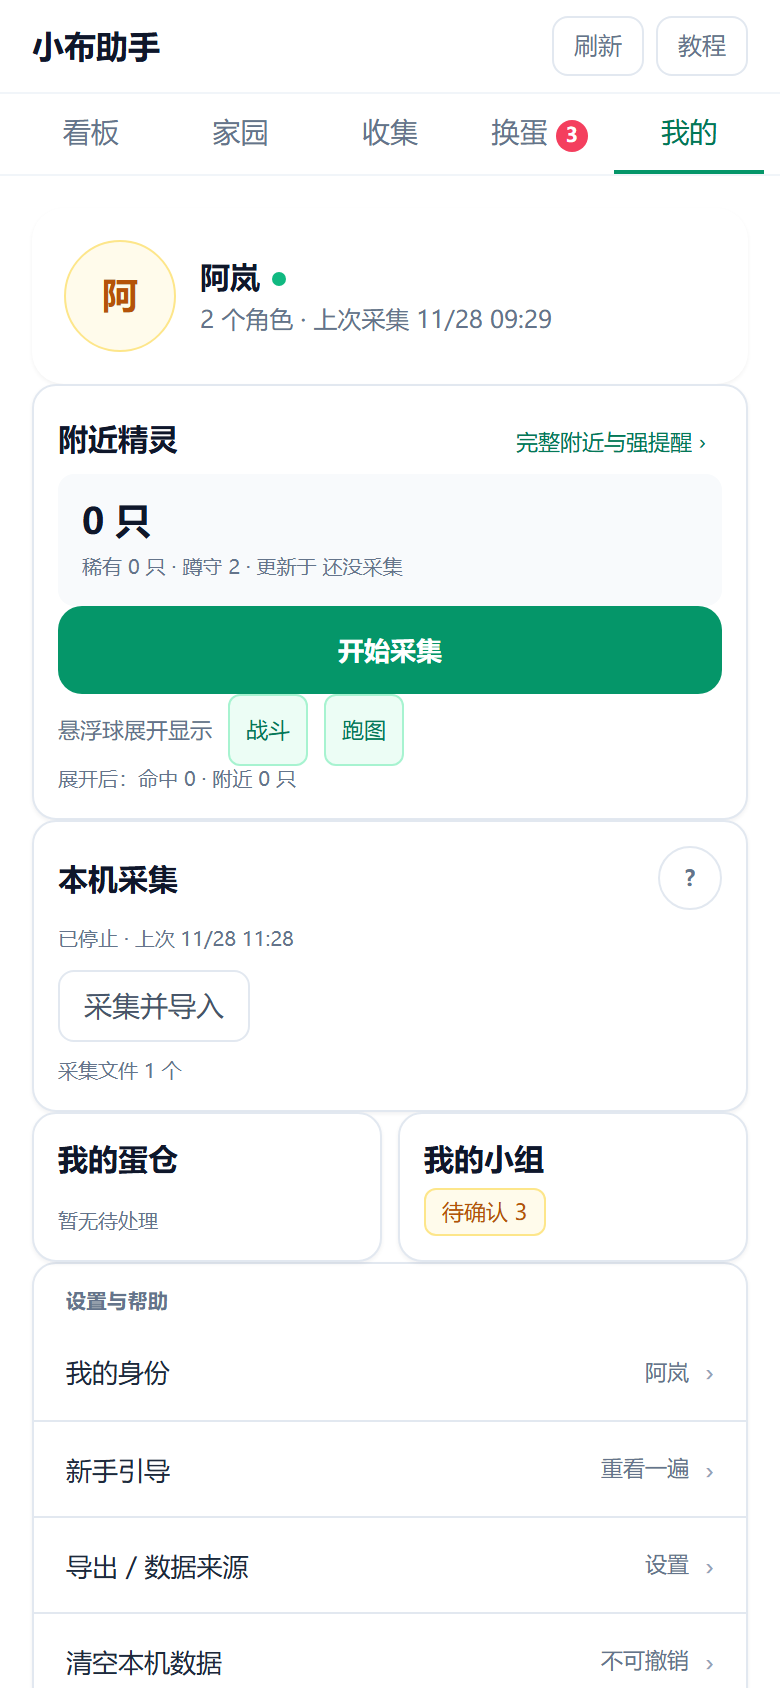
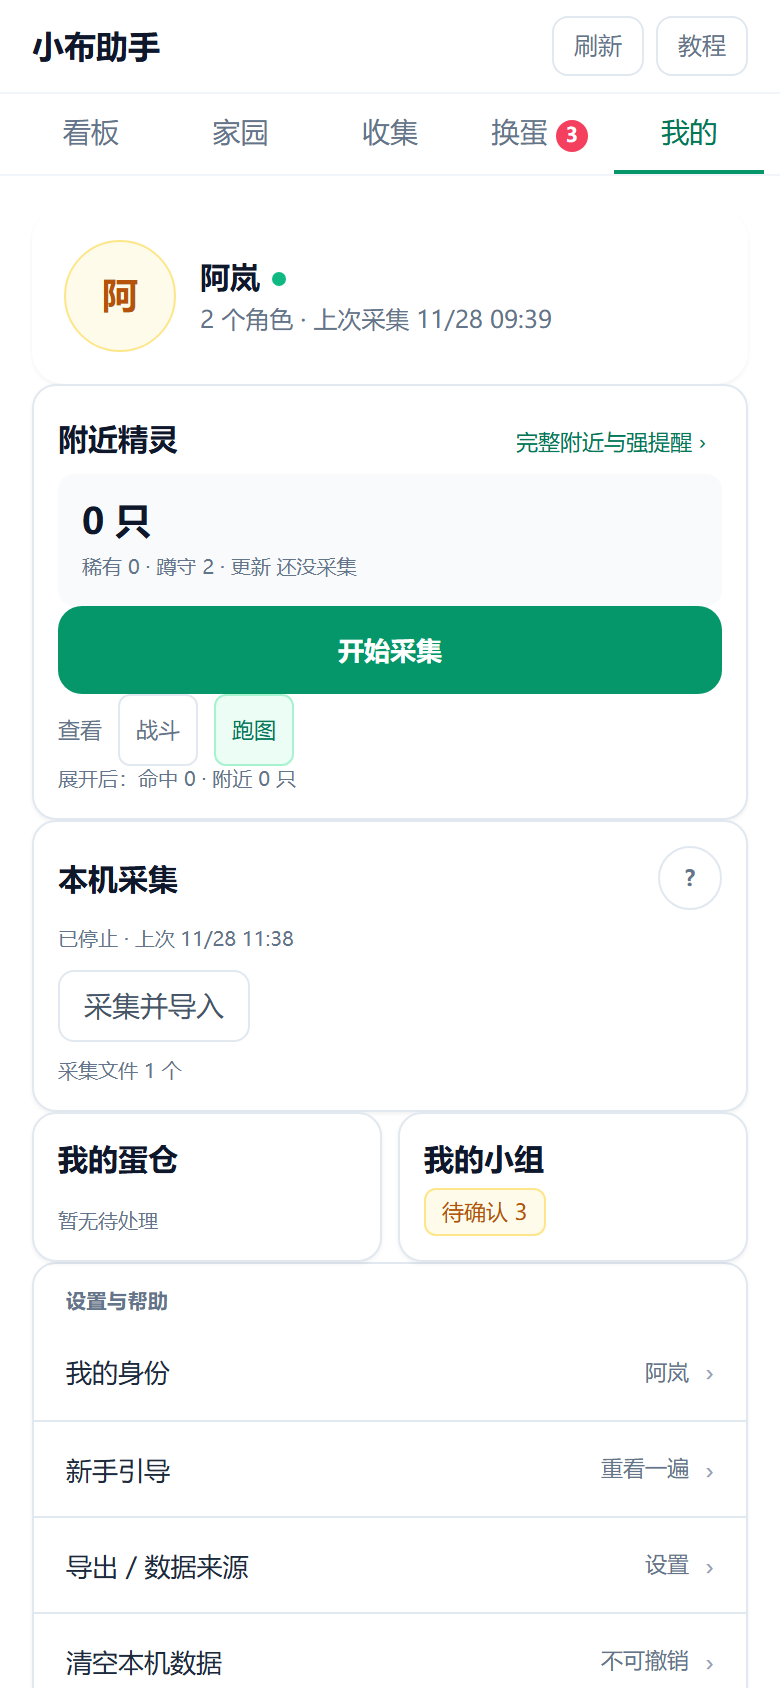
fix(profile): 战斗/跑图改成「看哪一类」的本机偏好，不是采集模式
按 UX1 查证口径修正：
- 新增 captureFocusStore（'battle'|'nearby'，key roco.captureFocus，默认跑图）；
  切换只写偏好，不碰采集会话 / 快照 / 悬浮球开关 / 提醒阈值
- 附近卡：卡名固定「附近精灵」；状态行按焦点切（跑图：N 只 + 稀有/蹲守/更新；
  战斗：最近一场 · 守卫 L 级 · 是否命中；不写「1 场」）；
  战斗 / 跑图改成互斥的查看开关，不再联动 overlayPanels
- 详情：入口文案随焦点变；「附近」页按焦点只显示附近列表或战斗卡
- 截图补 375/390 战斗焦点各一张

diff --git a/src/ui/profile/sections/NearbySection.tsx b/src/ui/profile/sections/NearbySection.tsx
@@ -1,16 +1,15 @@
 import { Card } from '../../kit';
 import { startCollectorCapture } from '../../../collector/nativeCollector';
 import { markCaptureOrigin } from '../../../collector/captureOriginStore';
-import { isLastEnabledNearbyOverlayPanel, setNearbyOverlayPanel, useNearbyOverlayPanels } from '../../../nearby/overlayPanels';
+import { setCaptureFocus, useCaptureFocus } from '../../../collector/captureFocusStore';
 import { useNearbyCardStats } from '../useNearbyCardStats';
 import type { SectionProps } from '../types';
 
 /**
- * 附近精灵入口卡（2026-11-28 UX1 方案 A）。
+ * 附近精灵卡（2026-11-28 UX1 方案 A / 口径修正）。
  *
- * 状态行（几只 / 稀有 / 更新时间）→ 开始采集 → 战斗 / 跑图两个独立开关 →
- * 实时后果一行 → 完整附近与强提醒。
- * 开关就是悬浮球的两块面板（`overlayPanels`），不新建状态；至少留一项。
+ * 战斗 / 跑图只是「看哪一类」：一次采集同时产出两类结果，切换只写本机偏好
+ * （`captureFocusStore`），不碰采集会话、不清快照、不联动悬浮球开关。
  */
 function timeText(ms: number | null): string {
   if (!ms) return '还没采集';
@@ -24,8 +23,8 @@ function timeText(ms: number | null): string {
 }
 
 export function NearbySection({ ctx }: SectionProps) {
-  const { pets, rare, targets, hits, updatedAt } = useNearbyCardStats();
-  const panels = useNearbyOverlayPanels();
+  const { pets, rare, targets, encounter, hit, updatedAt } = useNearbyCardStats();
+  const focus = useCaptureFocus();
 
   const start = () => {
     markCaptureOrigin('nearby');
@@ -45,15 +44,39 @@ export function NearbySection({ ctx }: SectionProps) {
           className="min-h-8 shrink-0 rounded-tile px-s2 text-meta font-medium text-accent-strong transition-colors active:bg-surface-sunken"
           data-testid="profile-nearby-detail"
         >
-          完整附近与强提醒 ›
+          {focus === 'battle' ? '完整战斗与强提醒 ›' : '完整附近与强提醒 ›'}
         </button>
       </div>
 
-      <div className="rounded-tile bg-surface-sunken p-s3" data-testid="profile-nearby-status">
-        <p className="text-hero font-semibold tabular-nums text-ink-strong">{pets} 只</p>
-        <p className="mt-s1 text-caption text-ink-muted">
-          稀有 {rare} 只{targets > 0 ? ` · 蹲守 ${targets}` : ''} · 更新于 {timeText(updatedAt)}
-        </p>
+      <div
+        className="rounded-tile bg-surface-sunken p-s3"
+        data-testid="profile-nearby-status"
+        data-focus={focus}
+      >
+        {focus === 'battle' ? (
+          encounter ? (
+            <>
+              <p className="text-hero font-semibold text-ink-strong">最近一场</p>
+              <p className="mt-s1 text-caption text-ink-muted">
+                {encounter.guardName} L{encounter.level}
+                {hit ? ' · 目标命中' : ''} · 更新 {timeText(updatedAt)}
+              </p>
+            </>
+          ) : (
+            <>
+              <p className="text-hero font-semibold text-ink-strong">最近一场</p>
+              <p className="mt-s1 text-caption text-ink-muted">还没有战斗数据 · 更新 {timeText(updatedAt)}</p>
+            </>
+          )
+        ) : (
+          <>
+            <p className="text-hero font-semibold tabular-nums text-ink-strong">{pets} 只</p>
+            <p className="mt-s1 text-caption text-ink-muted">
+              稀有 {rare}
+              {targets > 0 ? ` · 蹲守 ${targets}` : ''} · 更新 {timeText(updatedAt)}
+            </p>
+          </>
+        )}
       </div>
 
       <button
@@ -66,32 +89,29 @@ export function NearbySection({ ctx }: SectionProps) {
       </button>
 
       <div className="flex items-center gap-s2" data-testid="profile-nearby-panels">
-        <span className="text-meta text-ink-muted">悬浮球展开显示</span>
+        <span className="text-meta text-ink-muted">查看</span>
         {(['battle', 'nearby'] as const).map((key) => {
-          const on = panels[key];
-          const locked = isLastEnabledNearbyOverlayPanel(panels, key);
-          const label = key === 'battle' ? '战斗' : '跑图';
+          const on = focus === key;
           return (
             <button
               key={key}
               type="button"
               aria-pressed={on}
-              disabled={locked}
-              onClick={() => setNearbyOverlayPanel(key, !on)}
+              onClick={() => setCaptureFocus(key)}
               data-testid={`profile-nearby-panel-${key}`}
               className={`min-h-9 rounded-chip border px-s2 text-meta font-medium transition-colors active:bg-surface-sunken ${
                 on
                   ? 'border-accent-line bg-accent-soft text-accent-strong'
                   : 'border-line bg-surface text-ink-muted'
-              } disabled:opacity-60`}
+              }`}
             >
-              {label}
+              {key === 'battle' ? '战斗' : '跑图'}
             </button>
           );
         })}
       </div>
       <p className="text-caption text-ink-muted" data-testid="profile-nearby-effect">
-        展开后：命中 {hits} · 附近 {pets} 只
+        展开后：命中 {hit ? 1 : 0} · 附近 {pets} 只
       </p>
     </Card>
   );

diff --git a/src/ui/Nearby.tsx b/src/ui/Nearby.tsx
@@ -20,6 +20,7 @@ import { KIND_LABELS, rareAlertTitle } from '../pcap/rareRules';
 import type { NavigationIntent } from './navigation';
 import { NearbyBattleCard } from './NearbyBattleCard';
 import { NearbyAlertCard } from './NearbyAlertCard';
+import { useCaptureFocus } from '../collector/captureFocusStore';
 import { MapErrorBoundary } from './NearbyErrorBoundary';
 import { NearbyMap } from './NearbyMap';
 import { NearbyRadar } from './NearbyRadar';
@@ -251,6 +252,7 @@ export function Nearby({ onNavigate, embedded = false }: NearbyProps) {
   const rareAlertOn = useRareAlert();
   /** 手机悬浮球展开后显示哪些面板（本机记忆，只影响安卓壳，不重排本页） */
   const shellOverlaySupported = hasNearbyOverlayShell();
+  const captureFocus = useCaptureFocus();
   /** 悬浮球是否被隐藏（1.3.6）：长按球隐藏，这里负责恢复；null = 旧壳没有这个能力 */
   const [orbHidden, setOrbHiddenState] = useState<boolean | null>(null);
   const [view, setView] = useState<NearbyView>('map');
@@ -660,7 +662,7 @@ export function Nearby({ onNavigate, embedded = false }: NearbyProps) {
       <NearbyAlertCard />
       <section className="rounded-2xl bg-white p-3 shadow-sm" data-testid="nearby-status">
         <div className="flex items-center justify-between gap-2">
-          <h2 className="text-sm font-semibold text-slate-800">跑图 · 附近精灵</h2>
+          <h2 className="text-sm font-semibold text-slate-800">附近精灵</h2>
           <div className="flex shrink-0 items-center gap-1">
             {overlaySupported ? (
               <button
@@ -741,7 +743,7 @@ export function Nearby({ onNavigate, embedded = false }: NearbyProps) {
         {flow.error ? <p className="mt-1 text-xs text-rose-600" role="alert">{flow.error}</p> : null}
       </section>
 
-      <NearbyBattleCard encounter={encounter} />
+      {captureFocus === 'battle' ? <NearbyBattleCard encounter={encounter} /> : null}
 
       {capturing && progress && !progress.analysis.hasKey ? (
         <div className="rounded-xl bg-amber-50 px-3 py-2 text-xs text-amber-800 ring-1 ring-amber-200" data-testid="nearby-waiting-key">
@@ -770,6 +772,7 @@ export function Nearby({ onNavigate, embedded = false }: NearbyProps) {
         </div>
       ) : null}
 
+      <div className={captureFocus === 'battle' ? 'hidden' : 'contents'} data-testid="nearby-list-region">
       {hasAny ? (
         <>
           <div className="space-y-1.5 rounded-2xl bg-white p-3 shadow-sm" data-tour="nearby-filters">
@@ -963,6 +966,7 @@ export function Nearby({ onNavigate, embedded = false }: NearbyProps) {
           }
         />
       )}
+      </div>
 
       {fullscreen ? (
         <div className="fixed inset-0 z-[70] flex flex-col bg-slate-950" data-testid="nearby-fullscreen-view">

diff --git a/src/ui/Nearby.test.tsx b/src/ui/Nearby.test.tsx
@@ -2,6 +2,7 @@ import { act, fireEvent, render, screen, waitFor, within } from '@testing-librar
 import { beforeEach, describe, expect, test, vi } from 'vitest';
 import { useAutoImport, requestAutoImport } from '../collector/autoImportFlow';
 import { isNearbyOwnedSession, resetCaptureOriginForTest } from '../collector/captureOriginStore';
+import { resetCaptureFocusForTest, setCaptureFocus } from '../collector/captureFocusStore';
 import type { CaptureProgress } from '../collector/captureProgress';
 import { resetNearbyAlertGateForTest } from '../collector/nearbyAlert';
 import { resetNearbyRetainedForTest, readNearbyRetained } from '../collector/nearbyRetainStore';
@@ -87,6 +88,7 @@ const shellWithOverlay = () => {
 const openList = () => fireEvent.click(screen.getByRole('button', { name: '列表' }));
 
 beforeEach(() => {
+  resetCaptureFocusForTest();
   resetNearbyRetainedForTest();
   resetNearbyStoreForTest();
   resetNearbyAlertGateForTest();
@@ -111,7 +113,8 @@ describe('附近页', () => {
     expect(screen.getByText(/附近 3 只/)).toBeTruthy();
   });
 
-  test('赛季奇遇战显示捕获后的精灵名与百分比', () => {
+  test('赛季奇遇战显示捕获后的精灵名与百分比（焦点=战斗）', () => {
+    setCaptureFocus('battle');
     feed({ ...snapshot, encounter });
     render(<Nearby onNavigate={vi.fn()} />);
     const card = screen.getByTestId('nearby-battle-card');
@@ -123,7 +126,8 @@ describe('附近页', () => {
     expect(card.textContent).toContain('声音 14dB');
   });
 
-  test('还没拿到真实 petId 时不猜精灵名，显示守卫名', () => {
+  test('还没拿到真实 petId 时不猜精灵名，显示守卫名（焦点=战斗）', () => {
+    setCaptureFocus('battle');
     feed({ ...snapshot, encounter: { ...encounter, rewardPetId: null, rewardName: '' } });
     render(<Nearby onNavigate={vi.fn()} />);
     const card = screen.getByTestId('nearby-battle-card');

diff --git a/src/ui/profile/useNearbyCardStats.ts b/src/ui/profile/useNearbyCardStats.ts
@@ -2,19 +2,22 @@ import { useMemo } from 'react';
 import { battleTargetHit, useBattleTarget } from '../../collector/battleTargetStore';
 import { useNearbySnapshot } from '../../collector/nearbyStore';
 import { useNearbyTargets } from '../../nearby/nearbyTargetStore';
+import type { SeasonEncounter } from '../../collector/captureProgress';
 
 /**
  * 「我的」页附近卡的数据（2026-11-28 UX1 方案 A）。
  *
- * 全部来自**现有 store**：附近快照（`nearbyStore`）、蹲守名单、战斗目标；
- * 不新建状态，也不发起采集——卡只负责显示与入口。
+ * 全部来自**现有 store**：附近快照（`nearbyStore`）、蹲守名单、战斗目标。
+ * 一次采集同时产出附近与战斗两类结果，这里只读同一份快照，不触发解析。
  */
 export interface NearbyCardStats {
   pets: number;
   rare: number;
   targets: number;
-  /** 本场奇遇是否命中战斗目标（0/1） */
-  hits: number;
+  /** 最近一场战斗守卫；没有则为 null */
+  encounter: SeasonEncounter | null;
+  /** 本场是否命中战斗目标 */
+  hit: boolean;
   updatedAt: number | null;
 }
 
@@ -25,11 +28,13 @@ export function useNearbyCardStats(): NearbyCardStats {
 
   return useMemo(() => {
     const pets = snapshot?.pets ?? [];
+    const encounter = snapshot?.encounter ?? null;
     return {
       pets: pets.length,
       rare: pets.filter((pet) => pet.rare).length,
       targets: targets.length,
-      hits: snapshot?.encounter && battleTargetHit(battleTarget, snapshot.encounter) ? 1 : 0,
+      encounter,
+      hit: encounter != null && battleTargetHit(battleTarget, encounter),
       updatedAt: snapshot?.updatedAt ?? null,
     };
   }, [snapshot, targets.length, battleTarget]);

diff --git a/src/collector/captureFocusStore.ts b/src/collector/captureFocusStore.ts
@@ -1,0 +1,40 @@
+import { createModuleStore } from '../ui/createModuleStore';
+
+/**
+ * 「我的 · 附近精灵」卡看哪一类结果（2026-11-28 UX1 口径修正）。
+ *
+ * 一次采集、一次解码**同时**产出附近精灵与战斗守卫；这里只是 UI 偏好，
+ * 决定卡片状态行 / 详情入口 / 详情面板显示哪一类。
+ * **不碰采集会话、不清快照、不联动悬浮球开关、不改提醒阈值**——切回来零成本。
+ */
+export type CaptureFocus = 'battle' | 'nearby';
+
+export const CAPTURE_FOCUS_KEY = 'roco.captureFocus';
+
+export const DEFAULT_CAPTURE_FOCUS: CaptureFocus = 'nearby';
+
+export function normalizeCaptureFocus(value: unknown): CaptureFocus {
+  return value === 'battle' ? 'battle' : 'nearby';
+}
+
+const store = createModuleStore<CaptureFocus>(DEFAULT_CAPTURE_FOCUS, {
+  persistKey: CAPTURE_FOCUS_KEY,
+  migrate: normalizeCaptureFocus,
+});
+
+export function readCaptureFocus(): CaptureFocus {
+  return normalizeCaptureFocus(store.get());
+}
+
+export function useCaptureFocus(): CaptureFocus {
+  return store.use();
+}
+
+export function setCaptureFocus(focus: CaptureFocus): void {
+  store.set(normalizeCaptureFocus(focus));
+}
+
+/** 测试用：恢复默认（跑图）。 */
+export function resetCaptureFocusForTest(): void {
+  store.set(DEFAULT_CAPTURE_FOCUS);
+}

diff --git a/src/collector/captureFocusStore.test.ts b/src/collector/captureFocusStore.test.ts
@@ -1,0 +1,38 @@
+import { beforeEach, describe, expect, test } from 'vitest';
+import {
+  CAPTURE_FOCUS_KEY,
+  DEFAULT_CAPTURE_FOCUS,
+  normalizeCaptureFocus,
+  readCaptureFocus,
+  resetCaptureFocusForTest,
+  setCaptureFocus,
+} from './captureFocusStore';
+
+/**
+ * 战斗 / 跑图只是「看哪一类」（2026-11-28 口径修正）：
+ * 只存一个本机偏好，默认跑图，切错再点回来零成本。
+ */
+describe('captureFocusStore', () => {
+  beforeEach(() => {
+    window.localStorage.clear();
+    resetCaptureFocusForTest();
+  });
+
+  test('默认跑图；切换只写本机偏好', () => {
+    expect(DEFAULT_CAPTURE_FOCUS).toBe('nearby');
+    expect(readCaptureFocus()).toBe('nearby');
+
+    setCaptureFocus('battle');
+    expect(readCaptureFocus()).toBe('battle');
+    expect(JSON.parse(window.localStorage.getItem(CAPTURE_FOCUS_KEY) ?? 'null')).toBe('battle');
+
+    setCaptureFocus('nearby');
+    expect(readCaptureFocus()).toBe('nearby');
+  });
+
+  test('坏值一律按跑图处理', () => {
+    expect(normalizeCaptureFocus('battle')).toBe('battle');
+    expect(normalizeCaptureFocus('nope')).toBe('nearby');
+    expect(normalizeCaptureFocus(null)).toBe('nearby');
+  });
+});

diff --git a/src/ui/Profile.test.tsx b/src/ui/Profile.test.tsx
@@ -128,13 +128,14 @@ describe('Profile（我的）', () => {
 
     const battle = screen.getByTestId('profile-nearby-panel-battle');
     const nearby = screen.getByTestId('profile-nearby-panel-nearby');
-    expect(battle).toHaveAttribute('aria-pressed', 'true');
-    fireEvent.click(nearby);
-    expect(nearby).toHaveAttribute('aria-pressed', 'false');
-    // 关掉跑图后，战斗就是最后一项：置灰，不能再关掉
-    expect(battle).toBeDisabled();
+    // 默认看跑图；切战斗只换偏好，不碰采集会话
+    expect(nearby).toHaveAttribute('aria-pressed', 'true');
+    expect(battle).toHaveAttribute('aria-pressed', 'false');
     fireEvent.click(battle);
     expect(battle).toHaveAttribute('aria-pressed', 'true');
+    expect(nearby).toHaveAttribute('aria-pressed', 'false');
+    fireEvent.click(nearby);
+    expect(nearby).toHaveAttribute('aria-pressed', 'true');
   });
 
   test('概览卡挂在我的首页；分区子视图有「返回我的」并带 profile-section-data', () => {
